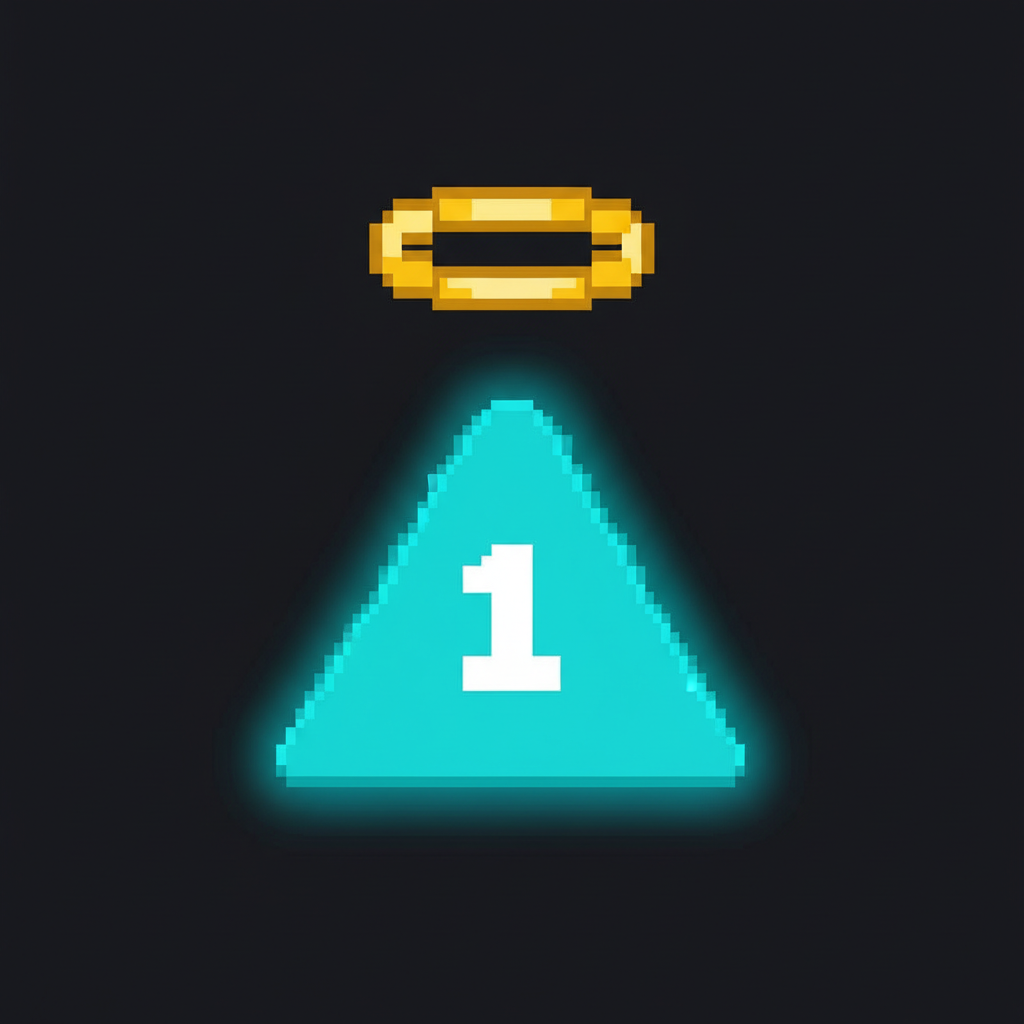
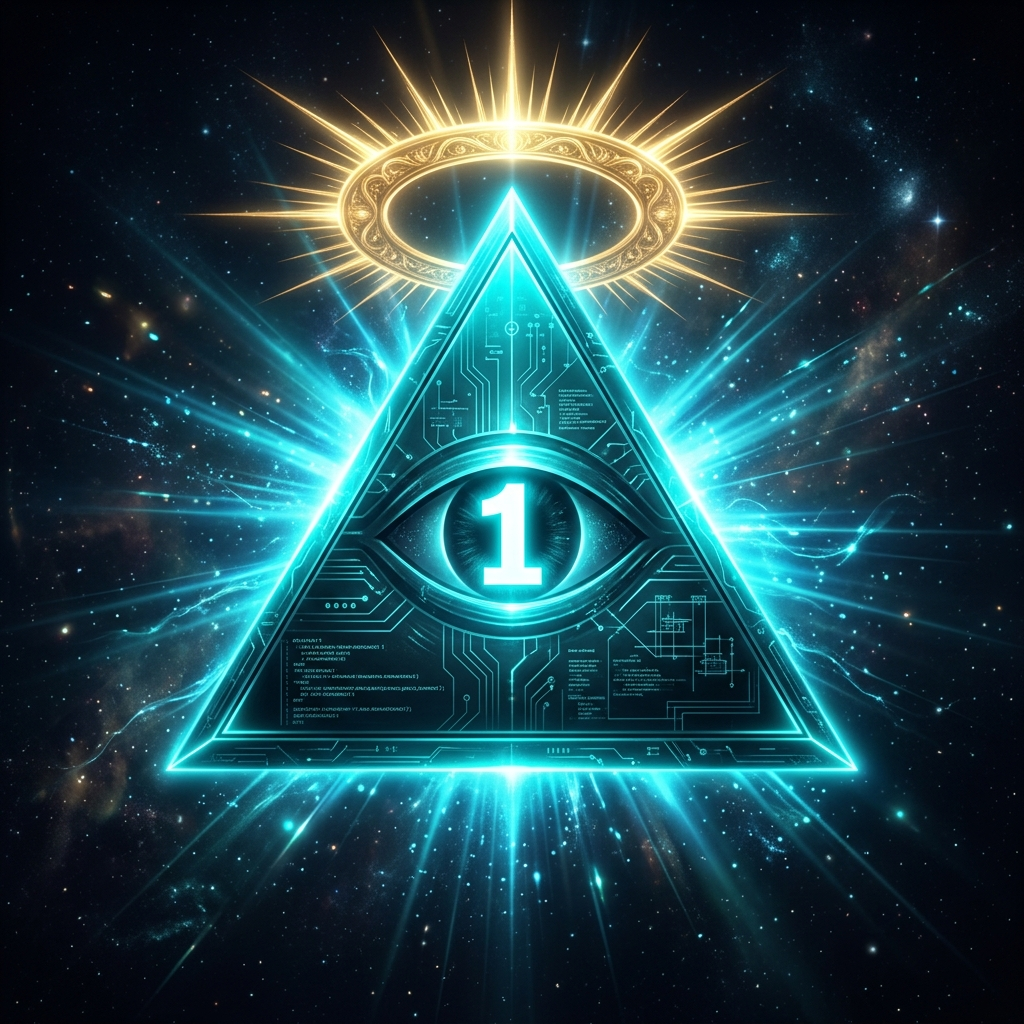
feat: Nano Banana 2 mascot + OG meta tags + CLI screenshot
- Refined mascot with gemini-3.1-flash-image-preview (dramatic/cinematic style)
- Full OG + Twitter Card meta tags for link previews
- SVG CLI screenshot for README
- Deployed to forgegod.com via Vercel

diff --git a/docs/index.html b/docs/index.html
@@ -4,13 +4,19 @@
 <meta charset="UTF-8">
 <meta name="viewport" content="width=device-width, initial-scale=1.0">
 <title>ForgeGod — Autonomous Coding Agent. Multi-Model. 24/7. $0 Local.</title>
-<meta name="description" content="The coding agent that runs 24/7, learns from its mistakes, and costs $0 when you want it to. Multi-model routing, Reflexion code gen, self-improving strategy.">
-<meta property="og:title" content="ForgeGod — Autonomous Coding Agent">
-<meta property="og:description" content="Multi-model autonomous coding engine. Local + Cloud. 24/7.">
+<meta name="description" content="The open-source coding agent that runs 24/7, learns from every outcome, and costs $0 with Ollama. Auto-routes between OpenAI, Anthropic, and local models. 5-tier cognitive memory. Self-improving strategy. The harness matters more than the model.">
+<meta property="og:title" content="ForgeGod — The Coding Agent That Never Sleeps">
+<meta property="og:description" content="Open-source autonomous coding engine. Auto-routes 4 LLM providers. Runs 24/7 from a PRD. 5-tier memory that learns from every task. $0 local mode with Ollama. The harness matters more than the model.">
 <meta property="og:image" content="https://forgegod.com/og-image.png">
+<meta property="og:image:width" content="1200">
+<meta property="og:image:height" content="630">
 <meta property="og:url" content="https://forgegod.com">
 <meta property="og:type" content="website">
+<meta property="og:site_name" content="ForgeGod">
 <meta name="twitter:card" content="summary_large_image">
+<meta name="twitter:title" content="ForgeGod — The Coding Agent That Never Sleeps">
+<meta name="twitter:description" content="Open-source. Multi-model. 24/7 autonomous. 5-tier memory. $0 local mode. The harness matters more than the model.">
+<meta name="twitter:image" content="https://forgegod.com/og-image.png">
 <link rel="icon" type="image/png" href="mascot.png">
 <link rel="preconnect" href="https://fonts.googleapis.com">
 <link rel="preconnect" href="https://fonts.gstatic.com" crossorigin>
